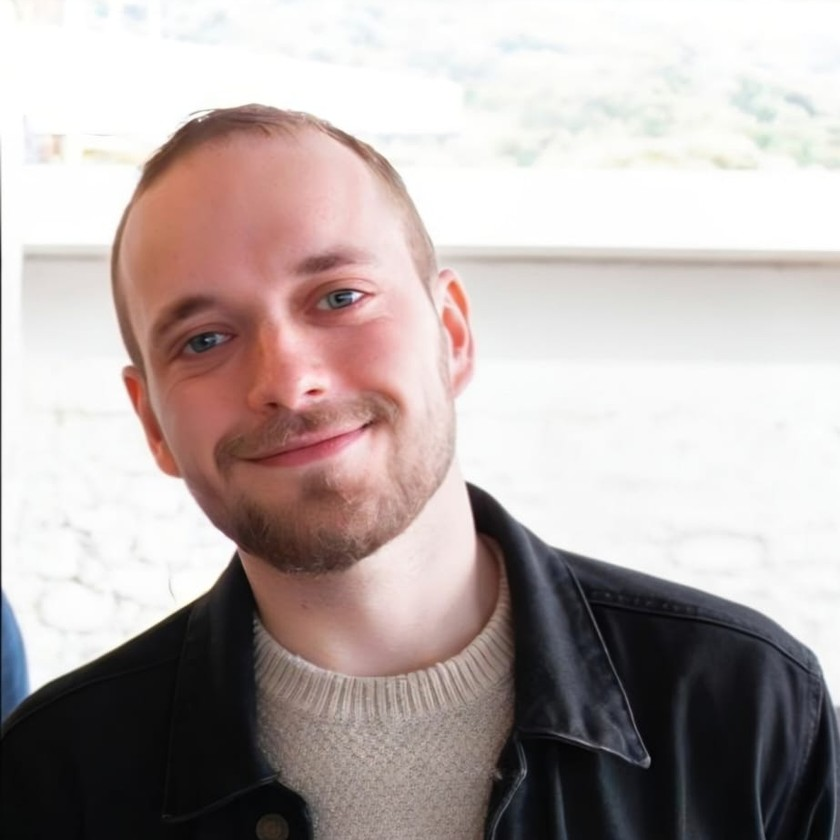
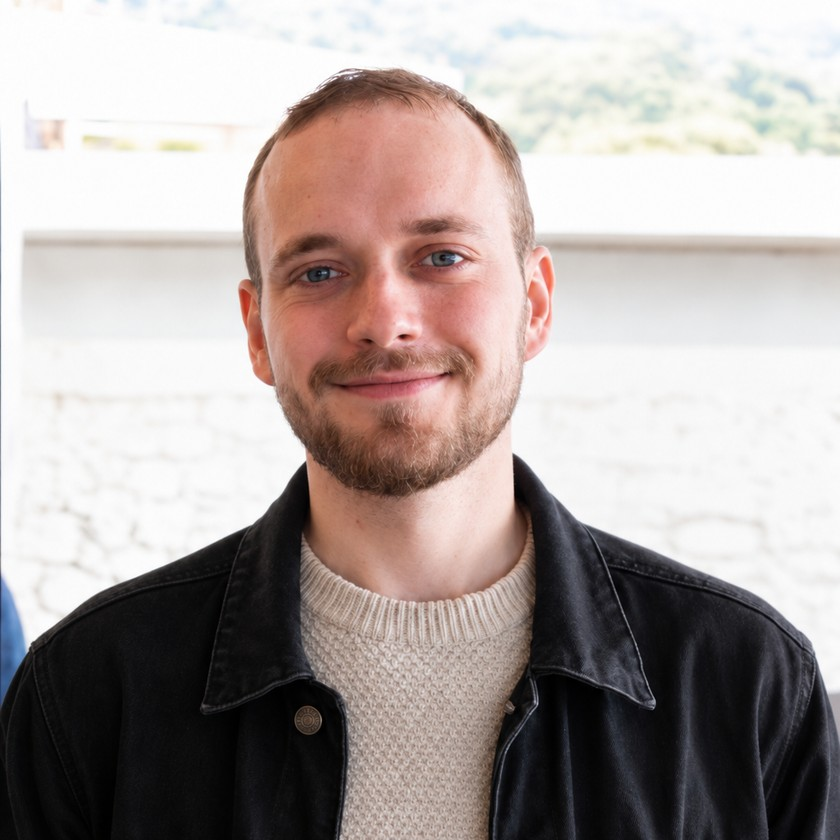
Use new photo

diff --git a/content/pages/about.md b/content/pages/about.md
@@ -9,7 +9,7 @@ redirect_from:
 {% assign home = site.data.home %}
 
 <div class="bio">
-  <img class="bio-photo" src="{{ '/images/lucas-eustache-avatar-v4.jpg' | relative_url }}" alt="Portrait of Lucas Eustache" width="180" height="270">
+  <img class="bio-photo" src="{{ '/images/lucas-eustache-avatar-v5.jpg' | relative_url }}" alt="Portrait of Lucas Eustache" width="180" height="270">
   <div class="bio-text">
   {% for paragraph in home.bio.paragraphs %}
     <p>{{ paragraph }}</p>
